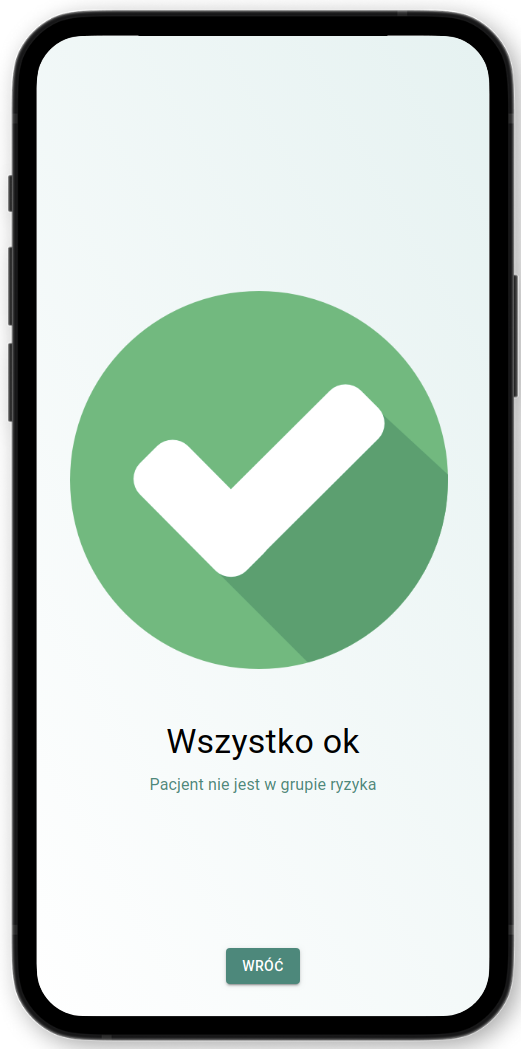
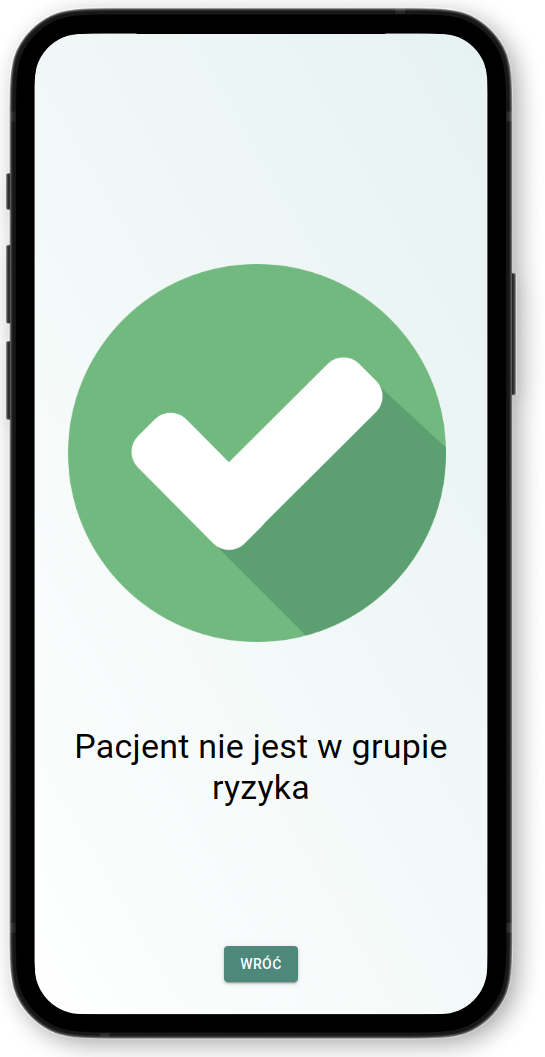
feat: update copy on success screen

diff --git a/src/components/ResultScreen/index.js b/src/components/ResultScreen/index.js
@@ -11,30 +11,27 @@ import useStyles from './styles';
 const OK = () => (
   <>
     <img src="ok2.png" width="90%" style={{ margin: 4, marginRight: 12 }} />
-    <Typography sx={{ mt: 6 }} gutterBottom variant="h4">
-      Wszystko ok
+    <Typography sx={{ mt: 10, textAlign: 'center' }} gutterBottom variant="h4">
+      Pacjent nie jest w grupie ryzyka
     </Typography>
-    <Typography color="primary">Pacjent nie jest w grupie ryzyka</Typography>
   </>
 );
 
 const WARNING = () => (
   <>
     <img src="warning1.png" width="100%" style={{ marginRight: 8 }} />
-    <Typography sx={{ mt: 6 }} gutterBottom variant="h4">
-      Istnieje ryzyko
+    <Typography sx={{ mt: 8, textAlign: 'center' }} gutterBottom variant="h4">
+      Pacjent może być w grupie ryzyka
     </Typography>
-    <Typography color="red">Pacjent może być w grupie ryzyka</Typography>
   </>
 );
 
 const ERROR = () => (
   <>
     <img src="error1.png" width="100%" style={{ marginRight: 8 }} />
-    <Typography sx={{ mt: 6 }} gutterBottom variant="h4">
-      Pacjent w grupie ryzyka
+    <Typography sx={{ mt: 8, textAlign: 'center' }} gutterBottom variant="h4">
+      Pacjent znajduje się w grupie ryzyka
     </Typography>
-    <Typography color="red">Pacjent znajduje się w grupie ryzyka</Typography>
   </>
 );
 

diff --git a/src/components/ResultScreen/steps.js b/src/components/ResultScreen/steps.js
@@ -96,7 +96,7 @@ const steps = (setMessage) => [
             height={48}
             style={{ marginRight: 8 }}
           />{' '}
-          pacjent w stanie zagrożenia
+          pacjent w grupie ryzyka
         </div>{' '}
         <Button
           sx={{

diff --git a/README.md b/README.md
@@ -1,6 +1,8 @@
-# hack4med app
+# Hack4med app
 
-## About project
+This project consist of a python model data, mobile/web app and presentation
+
+## Useful links
 
 - <https://fringers-hack4med.web.app/>
 - [modele](./python/)
@@ -8,8 +10,9 @@
 
 ## Screenshots
 
-| ![screenshot_1](/screenshots/mobile_app_screenshot.png) | ![screenshot_2](/screenshots/mobile_app_screenshot2.png) | ![screenshot_3](/screenshots/mobile_app_screenshot3.png) |
-| ------------------------------------------------------- | -------------------------------------------------------- | -------------------------------------------------------- |
+| ![screenshot_1](/screenshots/mobile_app_screenshot.png)  | ![screenshot_2](/screenshots/mobile_app_screenshot2.png) | ![screenshot_3](/screenshots/mobile_app_screenshot3.png) | ![screenshot_4](/screenshots/mobile_app_screenshot4.png) |
+| -------------------------------------------------------- | -------------------------------------------------------- | -------------------------------------------------------- | -------------------------------------------------------- |
+| -------------------------------------------------------- |
 
 ## How to install
 
